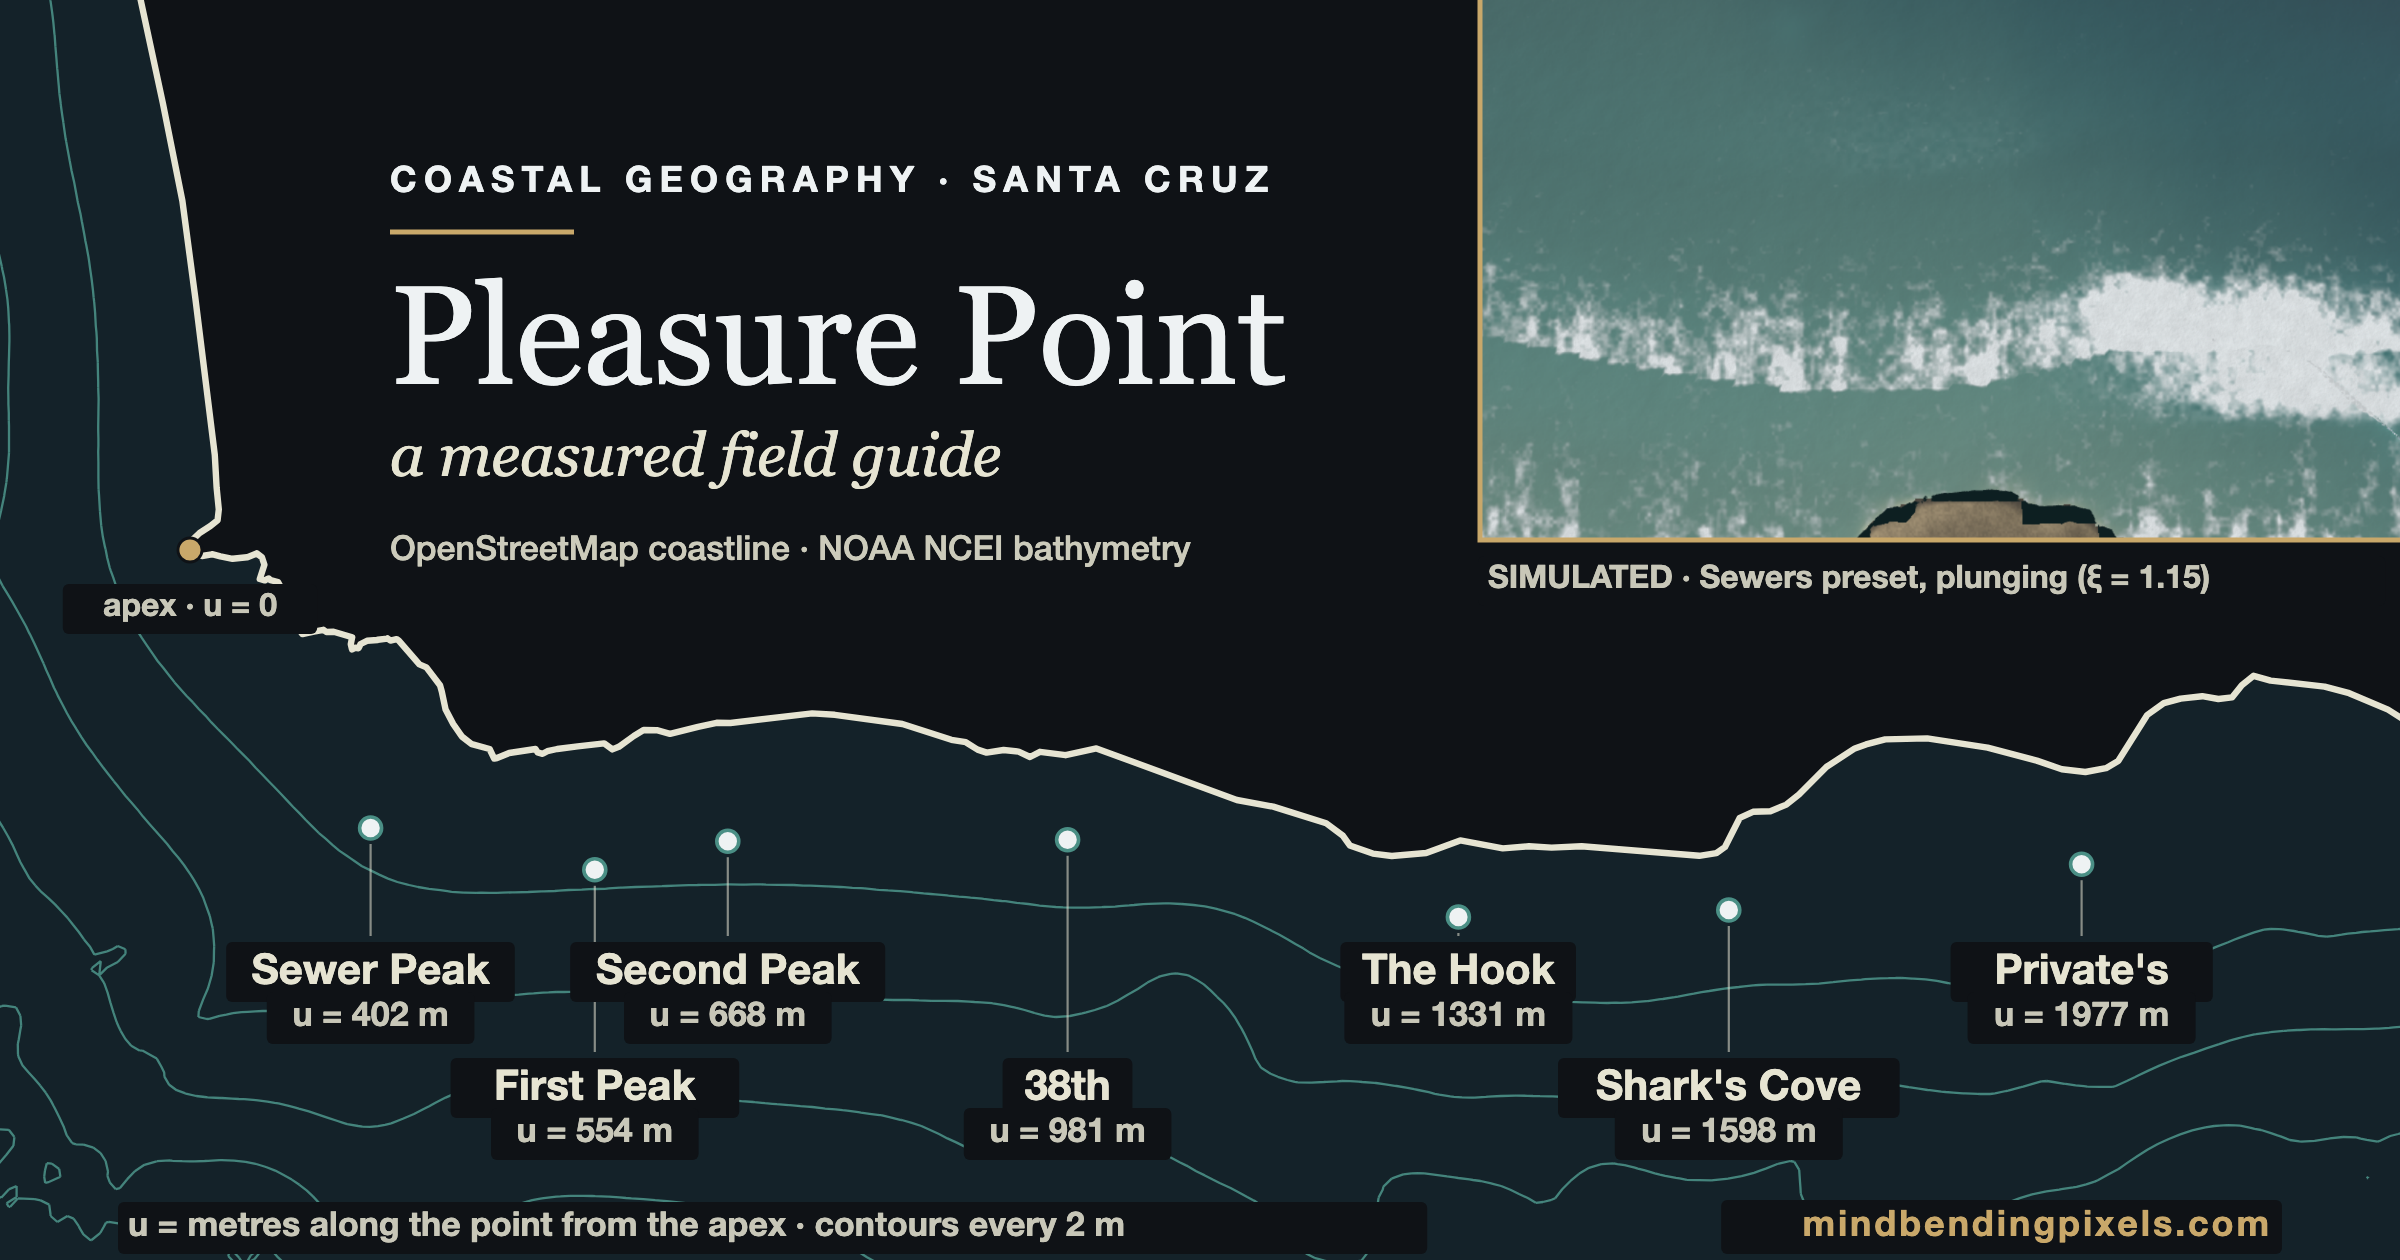
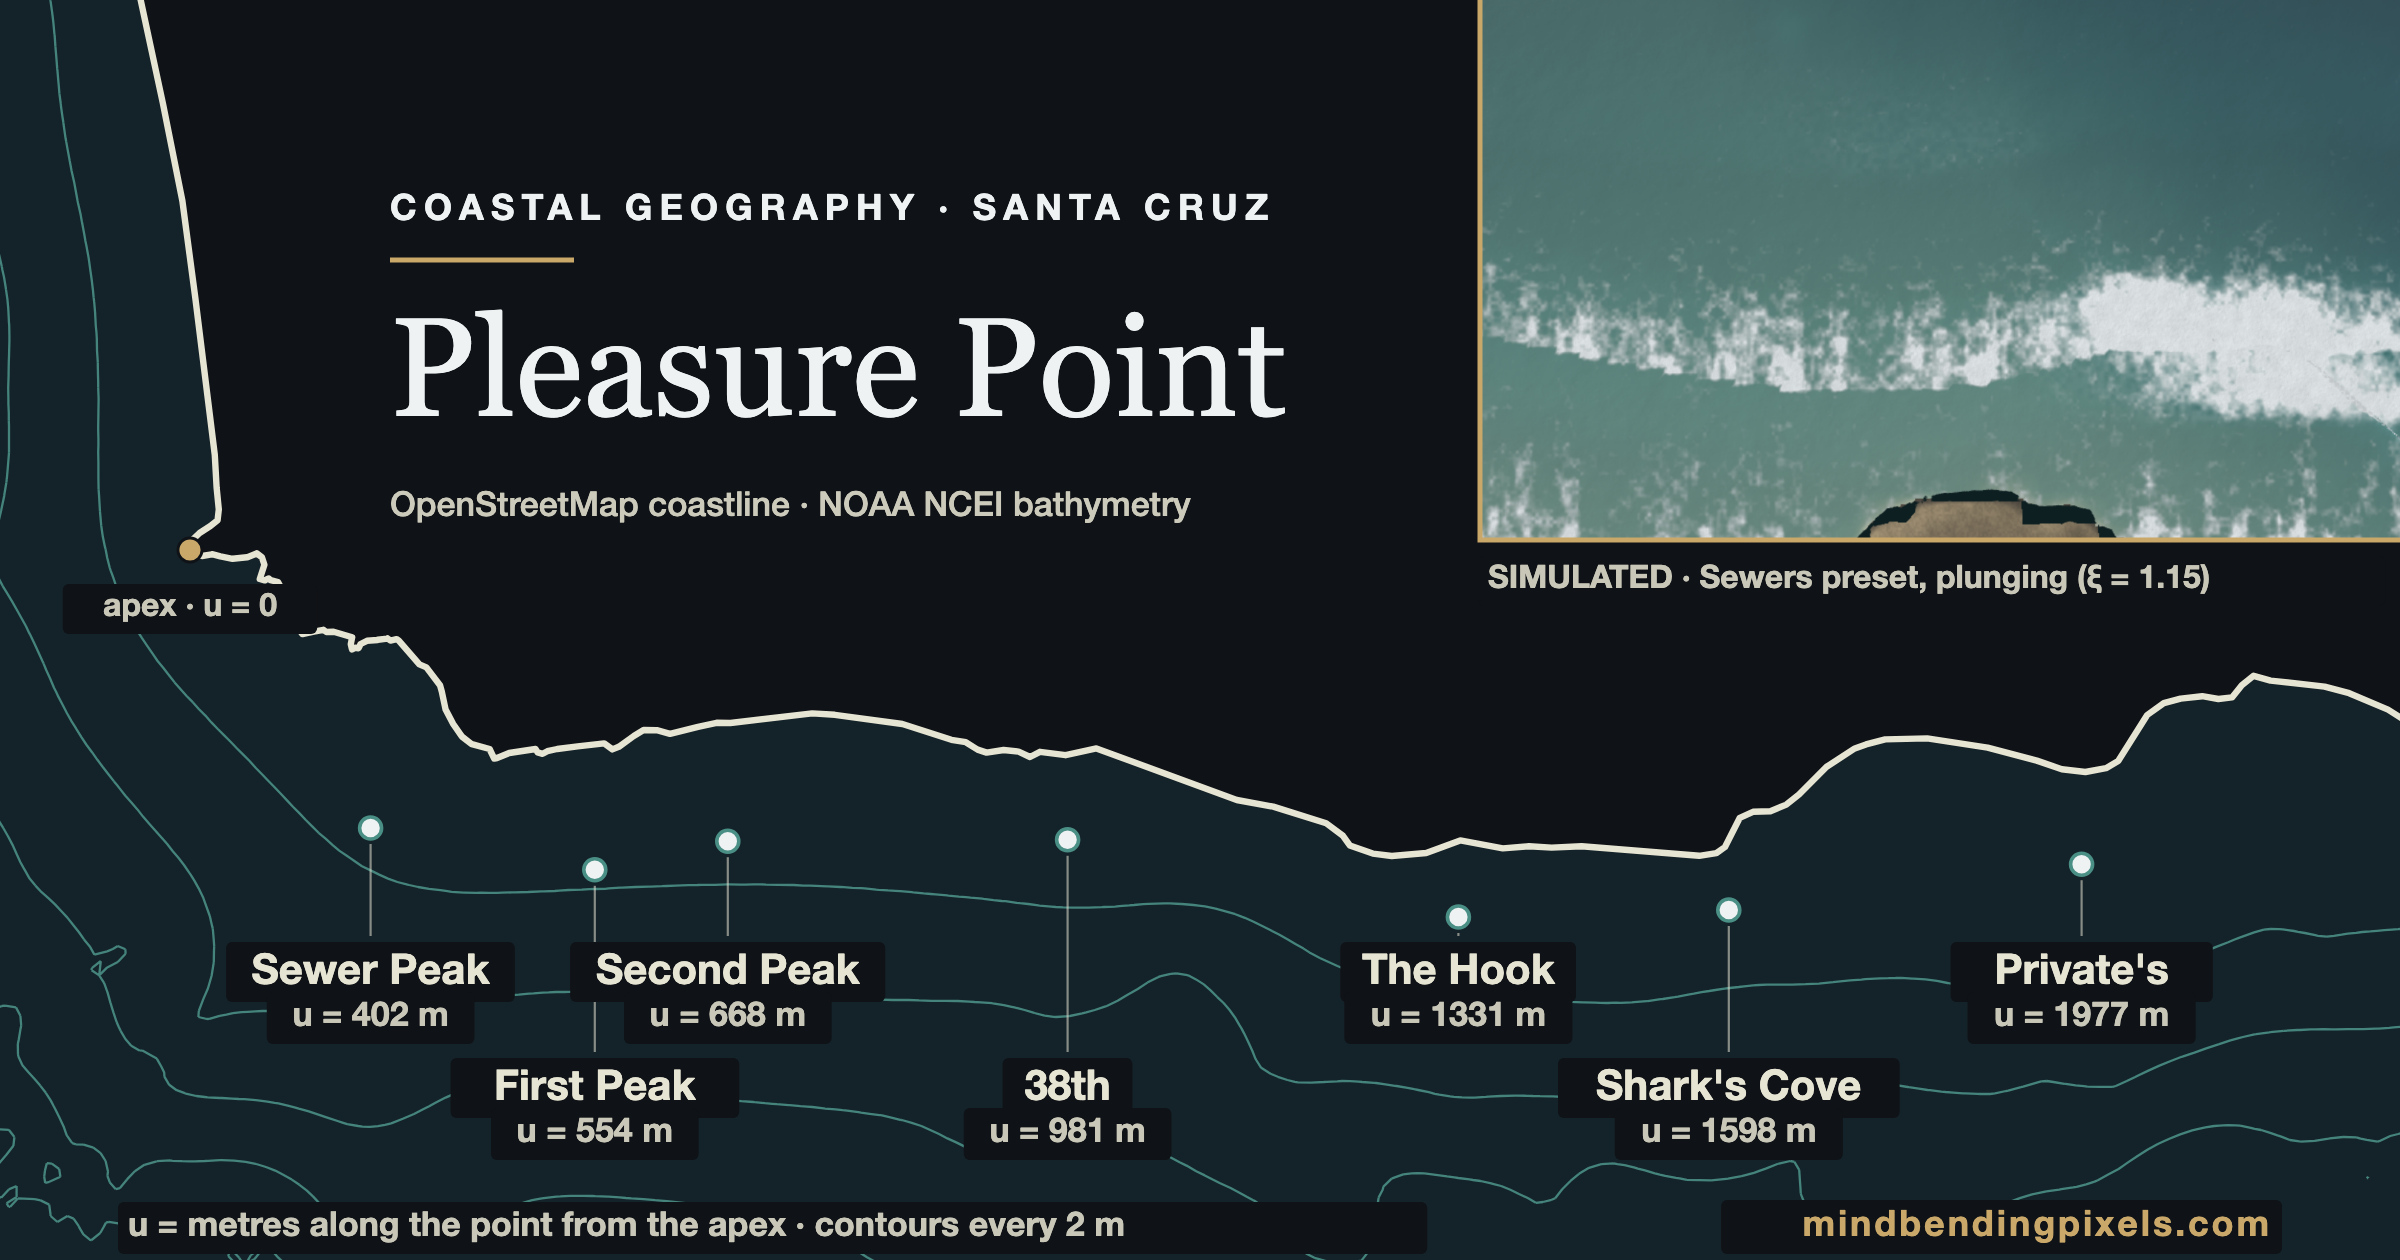
chore(public-prep): remove machine-specific paths; surface source + licence in the essay
Pre-public audit findings:
- docs/figures/render_check.mjs hard-imported
  /Users/andyed/.hermes/hermes-agent/node_modules/playwright — an absolute path
  to one machine, which both leaks local layout and breaks on any other clone.
  Now resolved through the same PLAYWRIGHT_DIR/candidate list the other capture
  scripts use.
- docs/figures/capture_og_hero.mjs carried the same path as a candidate; dropped.
- docs/research/TD_IMPLEMENTATION.md: absolute /Users/andyed paths -> ~/.
- No tracked file outside vendored three.js now contains an absolute local path.
- Full-history secret scan (every commit, every blob) came back clean.

Essay gains a source line under the deck: repo link plus the licence split,
since 'is this open?' is the first question a model invites.
Contrast on #0f1216: body 11.47:1, link 8.31:1, strong 14.66:1.

Changed region(s): [[0.1562, 0.1238, 0.5312, 0.4643], [0.4062, 0.1238, 0.5312, 0.1857]]

diff --git a/docs/figures/index.html b/docs/figures/index.html
@@ -368,6 +368,16 @@
   .limits li { margin-bottom: 0.55rem; }
   .limits strong { color: #e6e4d2; }
   h3.sub { font-size: 1.15rem; margin: 2rem 0 0.4rem 0; color: #e6e4d2; }
+
+  /* Source + licence, directly under the deck: people ask 'is this open?'
+     before they ask anything else about a model. */
+  .source-line {
+    max-width: 70ch; margin: 0.9rem 0 0 0;
+    font-family: -apple-system, BlinkMacSystemFont, sans-serif;
+    font-size: 0.95rem; line-height: 1.6; color: #cccbbb;
+  }
+  .source-line a { color: #c9a86a; }
+  .source-line strong { color: #e6e4d2; }
 </style>
 </head>
 <body>
@@ -378,6 +388,12 @@
   <p class="kicker">Work in progress &middot; Santa Cruz, California</p>
   <h1>Modelling the waves at Pleasure Point</h1>
   <p class="deck">A first pass, about a day old. Public coastline and seafloor survey data for a long point break on the east side of Santa Cruz, and a WebGL model that tries to turn that data into breaking waves. The measurements are solid. The model is a start.</p>
+  <p class="source-line">
+    Source, data and build scripts:
+    <a href="https://github.com/andyed/pointbreak" target="_blank" rel="noopener">github.com/andyed/pointbreak</a>
+    &middot; code, writing and figures <strong>MIT</strong>; OpenStreetMap-derived data ODbL 1.0;
+    NOAA bathymetry public domain.
+  </p>
   </header>
 
   <main>

diff --git a/docs/figures/gen_og.py b/docs/figures/gen_og.py
@@ -376,15 +376,20 @@ p.append(halo_text(P_X + 4, P_CAP_Y,
                    size=16, weight=600, cls="lbl-dim", anchor="start"))
 
 # ---- display type, upper left, on clean page background
+#
+# Place name only, deliberately: no subtitle or deck. The card carried the
+# page's subtitle once and immediately went stale when the page was retitled,
+# leaving the art contradicting its own og:title in every unfurl. The card is
+# regenerated far less often than the prose is edited, so it states only what
+# cannot go out of date -- where this is, and where the numbers came from.
+# If you add a headline line back, it has to be re-rendered with the page.
 TX = 195
-p.append(f'<text class="kicker" x="{TX}" y="96" font-size="18" font-weight="700">'
+p.append(f'<text class="kicker" x="{TX}" y="110" font-size="18" font-weight="700">'
          'COASTAL GEOGRAPHY &#183; SANTA CRUZ</text>')
-p.append(f'<line class="rule" x1="{TX}" y1="116" x2="{TX + 92}" y2="116"/>')
-p.append(f'<text class="title" x="{TX}" y="192" font-size="70" font-weight="400">'
+p.append(f'<line class="rule" x1="{TX}" y1="130" x2="{TX + 92}" y2="130"/>')
+p.append(f'<text class="title" x="{TX}" y="208" font-size="70" font-weight="400">'
          'Pleasure Point</text>')
-p.append(f'<text class="deck" x="{TX}" y="238" font-size="30" font-weight="500">'
-         'a measured field guide</text>')
-p.append(f'<text class="credit" x="{TX}" y="280" font-size="17" font-weight="500">'
+p.append(f'<text class="credit" x="{TX}" y="258" font-size="17" font-weight="500">'
          'OpenStreetMap coastline &#183; NOAA NCEI bathymetry</text>')
 
 # ---- bottom furniture: what u means, and who made it

diff --git a/docs/research/TD_IMPLEMENTATION.md b/docs/research/TD_IMPLEMENTATION.md
@@ -4,7 +4,7 @@ Date: 2026-08-09. Recon for building a surf point-break simulator in TouchDesign
 
 ## 1. tdmcp (MindDesigner) capabilities
 
-Repo: `/Users/andyed/Documents/dev/tdmcp` (v0.13.1). Node MCP server + a Python **bridge** running inside TD (`/project1/tdmcp_bridge`, port 9980; health check `curl http://127.0.0.1:9980/api/info`). 508 tools in three layers (artist generators → building blocks → atomic node CRUD), backed by an embedded knowledge base of 629 operators + 68 Python classes. Docs: `docs/reference/tools.md` (7,418 lines), `architecture.md`, `bridge-api.md`.
+Repo: `~/Documents/dev/tdmcp` (v0.13.1). Node MCP server + a Python **bridge** running inside TD (`/project1/tdmcp_bridge`, port 9980; health check `curl http://127.0.0.1:9980/api/info`). 508 tools in three layers (artist generators → building blocks → atomic node CRUD), backed by an embedded knowledge base of 629 operators + 68 Python classes. Docs: `docs/reference/tools.md` (7,418 lines), `architecture.md`, `bridge-api.md`.
 
 Core loop (architecture.md): **create → verify (`get_td_node_errors`) → preview (`get_preview`)**, with auto left→right network layout.
 
@@ -34,7 +34,7 @@ Security note: the bridge executes arbitrary Python and listens on all interface
 ## 2. House conventions — PSYCHODELI_NATIVE_V3_MATH
 
 Not a standalone file: it is a COMP at `/project1/PSYCHODELI_NATIVE_V3_MATH` **inside**
-`/Users/andyed/Documents/dev/psychodeli-audio-lab/output/touchdesigner/Psychodeli-Warehouse-Signal-TD-v1.30-Native-Shader-Studio.toe`
+`~/Documents/dev/psychodeli-audio-lab/output/touchdesigner/Psychodeli-Warehouse-Signal-TD-v1.30-Native-Shader-Studio.toe`
 (same .toe also carries the earlier `PSYCHODELI_NATIVE_V2` with a 40_FINISH variant; v1.24/v1.27 siblings exist; preview PNG `Psychodeli-Native-Shader-Studio-preview.png` beside them). Inspect without opening TD via `/Applications/TouchDesigner.app/Contents/MacOS/toeexpand <file>.toe` (writes `<file>.toe.dir` + `.toc`).
 
 Module structure — numbered stage COMPs, "truth flows left to right":
